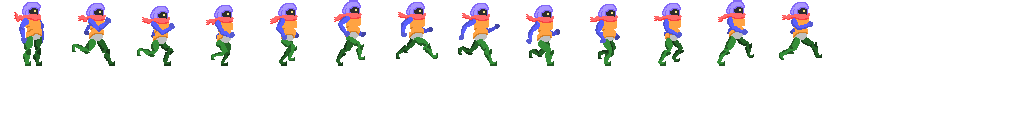
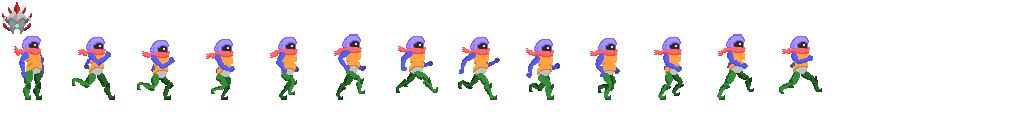
new enemy sprite, texture pack and logic related to them

Changed region(s): [[0.0, 0.0, 0.8125, 0.7812]]

diff --git a/Pather/core/src/pather/game/Sprites/Hopper.java b/Pather/core/src/pather/game/Sprites/Hopper.java
@@ -1,0 +1,106 @@
+package pather.game.Sprites;
+
+import com.badlogic.gdx.graphics.g2d.Animation;
+import com.badlogic.gdx.graphics.g2d.Batch;
+import com.badlogic.gdx.graphics.g2d.TextureRegion;
+import com.badlogic.gdx.math.Vector2;
+import com.badlogic.gdx.physics.box2d.BodyDef;
+import com.badlogic.gdx.physics.box2d.CircleShape;
+import com.badlogic.gdx.physics.box2d.FixtureDef;
+import com.badlogic.gdx.physics.box2d.PolygonShape;
+import com.badlogic.gdx.utils.Array;
+
+import pather.game.Pather;
+import pather.game.Screens.PlayScreen;
+
+
+//This is an example based on the Goomba enemy in Super Mario Brothers, originally by Brent Aureli
+
+public class Hopper extends Enemy {
+
+    private float stateTime;
+    private Animation<TextureRegion> walkAnimation;
+    private Array<TextureRegion> frames;
+    private boolean setToDestroy;
+    private boolean destroyed;
+
+    public Hopper(PlayScreen screen, float x, float y) {
+        super(screen, x, y);
+        frames = new Array<TextureRegion>();
+
+        //Our enemy doesn't have a walk cycle animation. However
+        frames.add(new TextureRegion(screen.getAtlas().findRegion("hopper"), 0, 0, 32, 32));
+        walkAnimation = new Animation<TextureRegion>(0.4f, frames); //each frame appears for 0.4 seconds
+        stateTime = 0;
+        setBounds(getX(), getY(), 32 / Pather.PPM, 32 / Pather.PPM);
+        setToDestroy = false;
+        destroyed = false;
+        this.velocity = new Vector2(0f, 13f);
+    }
+
+    public void update(float dt){
+        stateTime += dt;
+        if(setToDestroy && !destroyed){
+            //If the enemy has been stomped on we change it's sprite to flat goomba
+            world.destroyBody(b2body);
+            destroyed = true;
+            stateTime = 0;
+        }else if(!destroyed){
+            if(stateTime > 5) {
+                b2body.setLinearVelocity(velocity);
+                stateTime = 0;
+            }
+            setPosition(b2body.getPosition().x - getWidth() / 2, b2body.getPosition().y - getHeight() / 2);
+            setRegion(walkAnimation.getKeyFrame(stateTime, true));
+        }
+    }
+
+    public void draw(Batch batch){
+        if(!destroyed || stateTime < 1){
+            super.draw(batch);
+        }
+    }
+
+    public void jump(){
+        if(stateTime > 5) {
+            this.b2body.applyLinearImpulse(new Vector2(0, 50f), this.b2body.getWorldCenter(), true);
+            stateTime = 1;
+        }
+    }
+
+    @Override
+    protected void defineEnemy() {
+        //body definitions
+        BodyDef bdef = new BodyDef();
+        bdef.position.set(getX(), getY());
+        bdef.type = BodyDef.BodyType.DynamicBody;
+
+        b2body = world.createBody(bdef);
+
+        //box2d definitions and collision definitions
+        FixtureDef fdef = new FixtureDef();
+        CircleShape shape = new CircleShape();
+        shape.setRadius(16 / Pather.PPM);
+        fdef.filter.categoryBits = Pather.ENEMY_BIT;
+        fdef.filter.maskBits =  Pather.GROUND_BIT |
+                                Pather.DANGERZONE_BIT |
+                                Pather.WIN_BIT |
+                                Pather.ENEMY_BIT |
+                                Pather.OBJECT_BIT |
+                                Pather.PLAYER_BIT;
+
+        fdef.shape = shape;
+        fdef.friction = 0f;
+        fdef.density = 1f;
+        b2body.createFixture(fdef).setUserData(this);
+    }
+
+    @Override
+    public void hitOnHead(Player player) {
+
+    }
+
+    public void onEnemyHit(Enemy enemy){
+
+    }
+}

diff --git a/Pather/core/src/pather/game/Sprites/Player.java b/Pather/core/src/pather/game/Sprites/Player.java
@@ -65,14 +65,14 @@ public class Player extends Sprite {
         Array<TextureRegion> frames = new Array<TextureRegion>();
         for(int i = 1; i < 13; i++){
             // i * x, where i equals the amount of our run frames and x equals the width of a single run frame
-            frames.add(new TextureRegion(screen.getAtlas().findRegion("pather_still_1-13_onecanvas"), i * 64, 0, 64, 64));
+            frames.add(new TextureRegion(screen.getAtlas().findRegion("character"), i * 64, 0, 64, 64));
         }
         characterRun = new Animation<TextureRegion>(0.1f, frames);
 
-        characterJump = new TextureRegion(screen.getAtlas().findRegion("pather_still_1-13_onecanvas"), 384, 0, 64, 64);
-        characterDead = new TextureRegion(screen.getAtlas().findRegion("pather_still_1-13_onecanvas"), 448, 0, 64, 64);
+        characterJump = new TextureRegion(screen.getAtlas().findRegion("character"), 384, 0, 64, 64);
+        characterDead = new TextureRegion(screen.getAtlas().findRegion("character"), 448, 0, 64, 64);
         //create texture regions for Player standing
-        characterStand = new TextureRegion(screen.getAtlas().findRegion("pather_still_1-13_onecanvas"), 0,0, 64, 64);
+        characterStand = new TextureRegion(screen.getAtlas().findRegion("character"), 0,0, 64, 64);
 
         //define player in box2d
         definePlayer();
